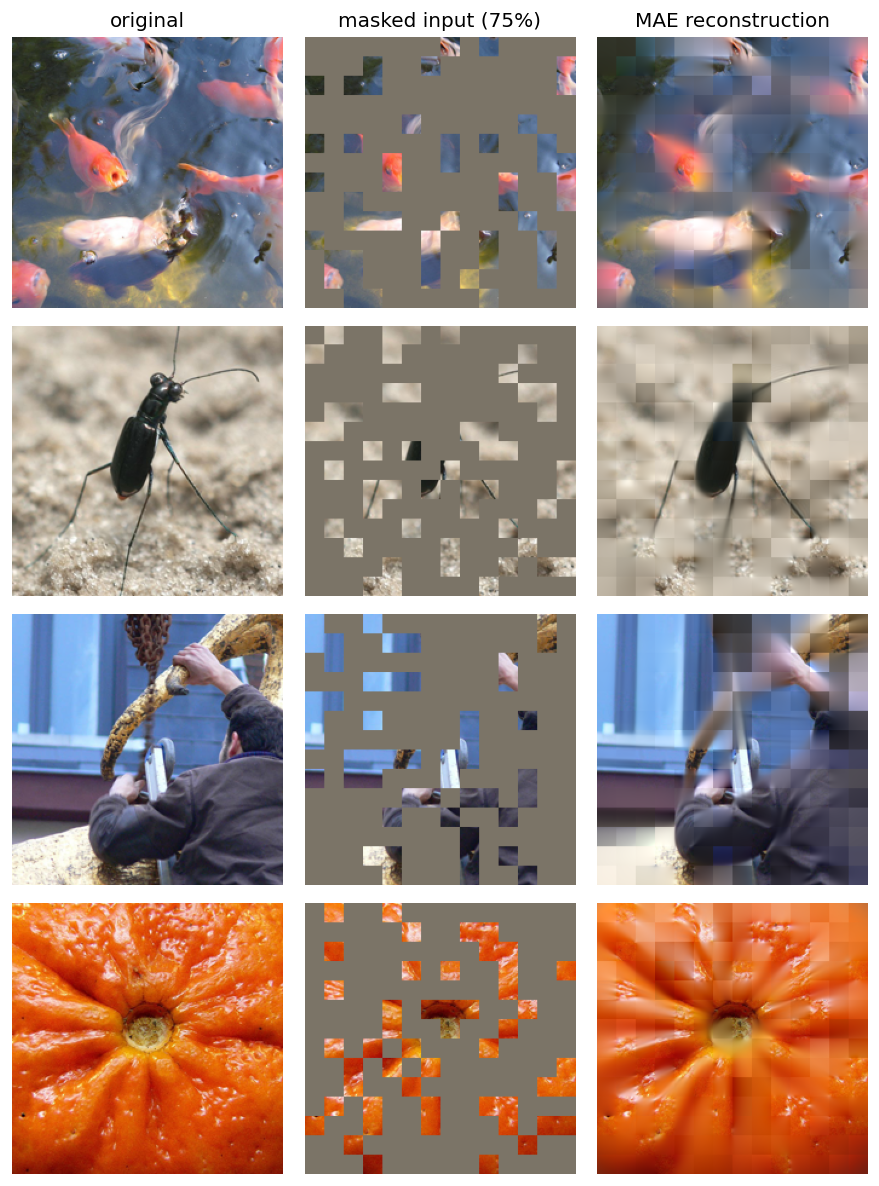
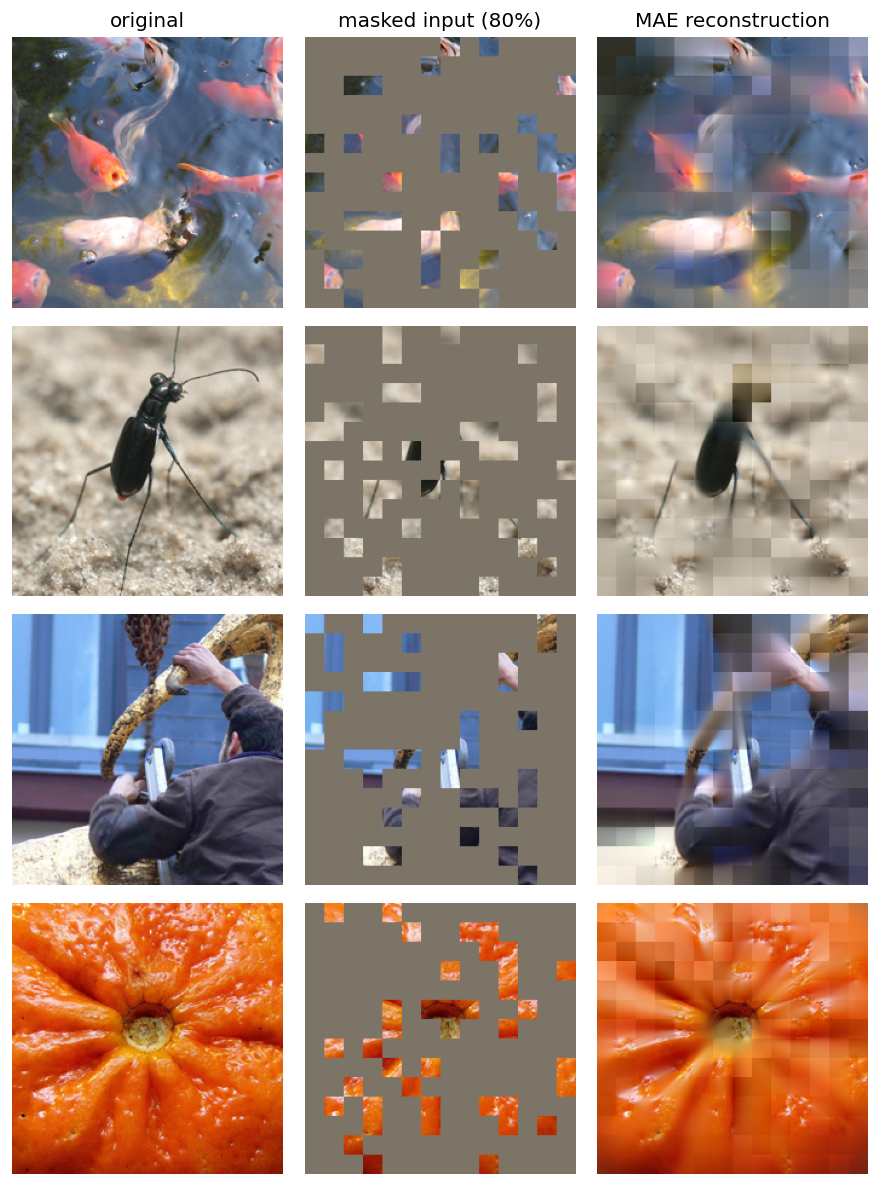
README: MAE viz at 80% mask + verified as trained-model output (recon loss 0.12-0.72)

diff --git a/README.md b/README.md
@@ -57,11 +57,11 @@ The masking trick: draw random noise per patch, `argsort` it to get a shuffle, k
 
 ## Reconstructions
 
-The whole idea, made visual. The encoder sees only the **25% of patches** in the middle column; the decoder fills in the rest (right). Blurry — it's pixel-MSE, not a GAN — but *semantically right*: the model inferred the goldfish, the beetle's legs and antennae, the person's arm, and the orange's radial texture from a quarter of the image.
+The whole idea, made visual. The encoder sees only the **20% of patches** in the middle column; the decoder fills in the rest (right). Blurry — it's pixel-MSE, not a GAN — but *semantically right*: the model inferred the goldfish, the beetle's legs and antennae, the person's arm, and the orange's radial texture from a fifth of the image.
 
-![MAE reconstructions: original, 75%-masked input, and the model's fill-in](assets/mae_reconstruction.png)
+![MAE reconstructions: original, 80%-masked input, and the model's fill-in](assets/mae_reconstruction.png)
 
-*Left → original · Middle → the masked input the encoder actually receives (75% of patches dropped) · Right → MAE's reconstruction (visible patches kept, masked patches predicted by the decoder). Pretrained 400 epochs, mask ratio 0.75.*
+*Left → original · Middle → the masked input the encoder receives — **80% of patches hidden** · Right → MAE's reconstruction (visible patches kept, masked patches filled by the decoder). Pretrained 400 epochs at 75% masking; shown here at a harder **80%** to stress-test — it still reconstructs from just a fifth of the image. (Per-image recon loss 0.12–0.72, confirming these are the trained model's outputs, not a random init's ~0.9.)*
 
 > **SimMIM reconstructions coming** once its pretraining finishes — same three-panel view, for a side-by-side **MIM-drop (MAE) vs MIM-keep (SimMIM)** comparison.
 
